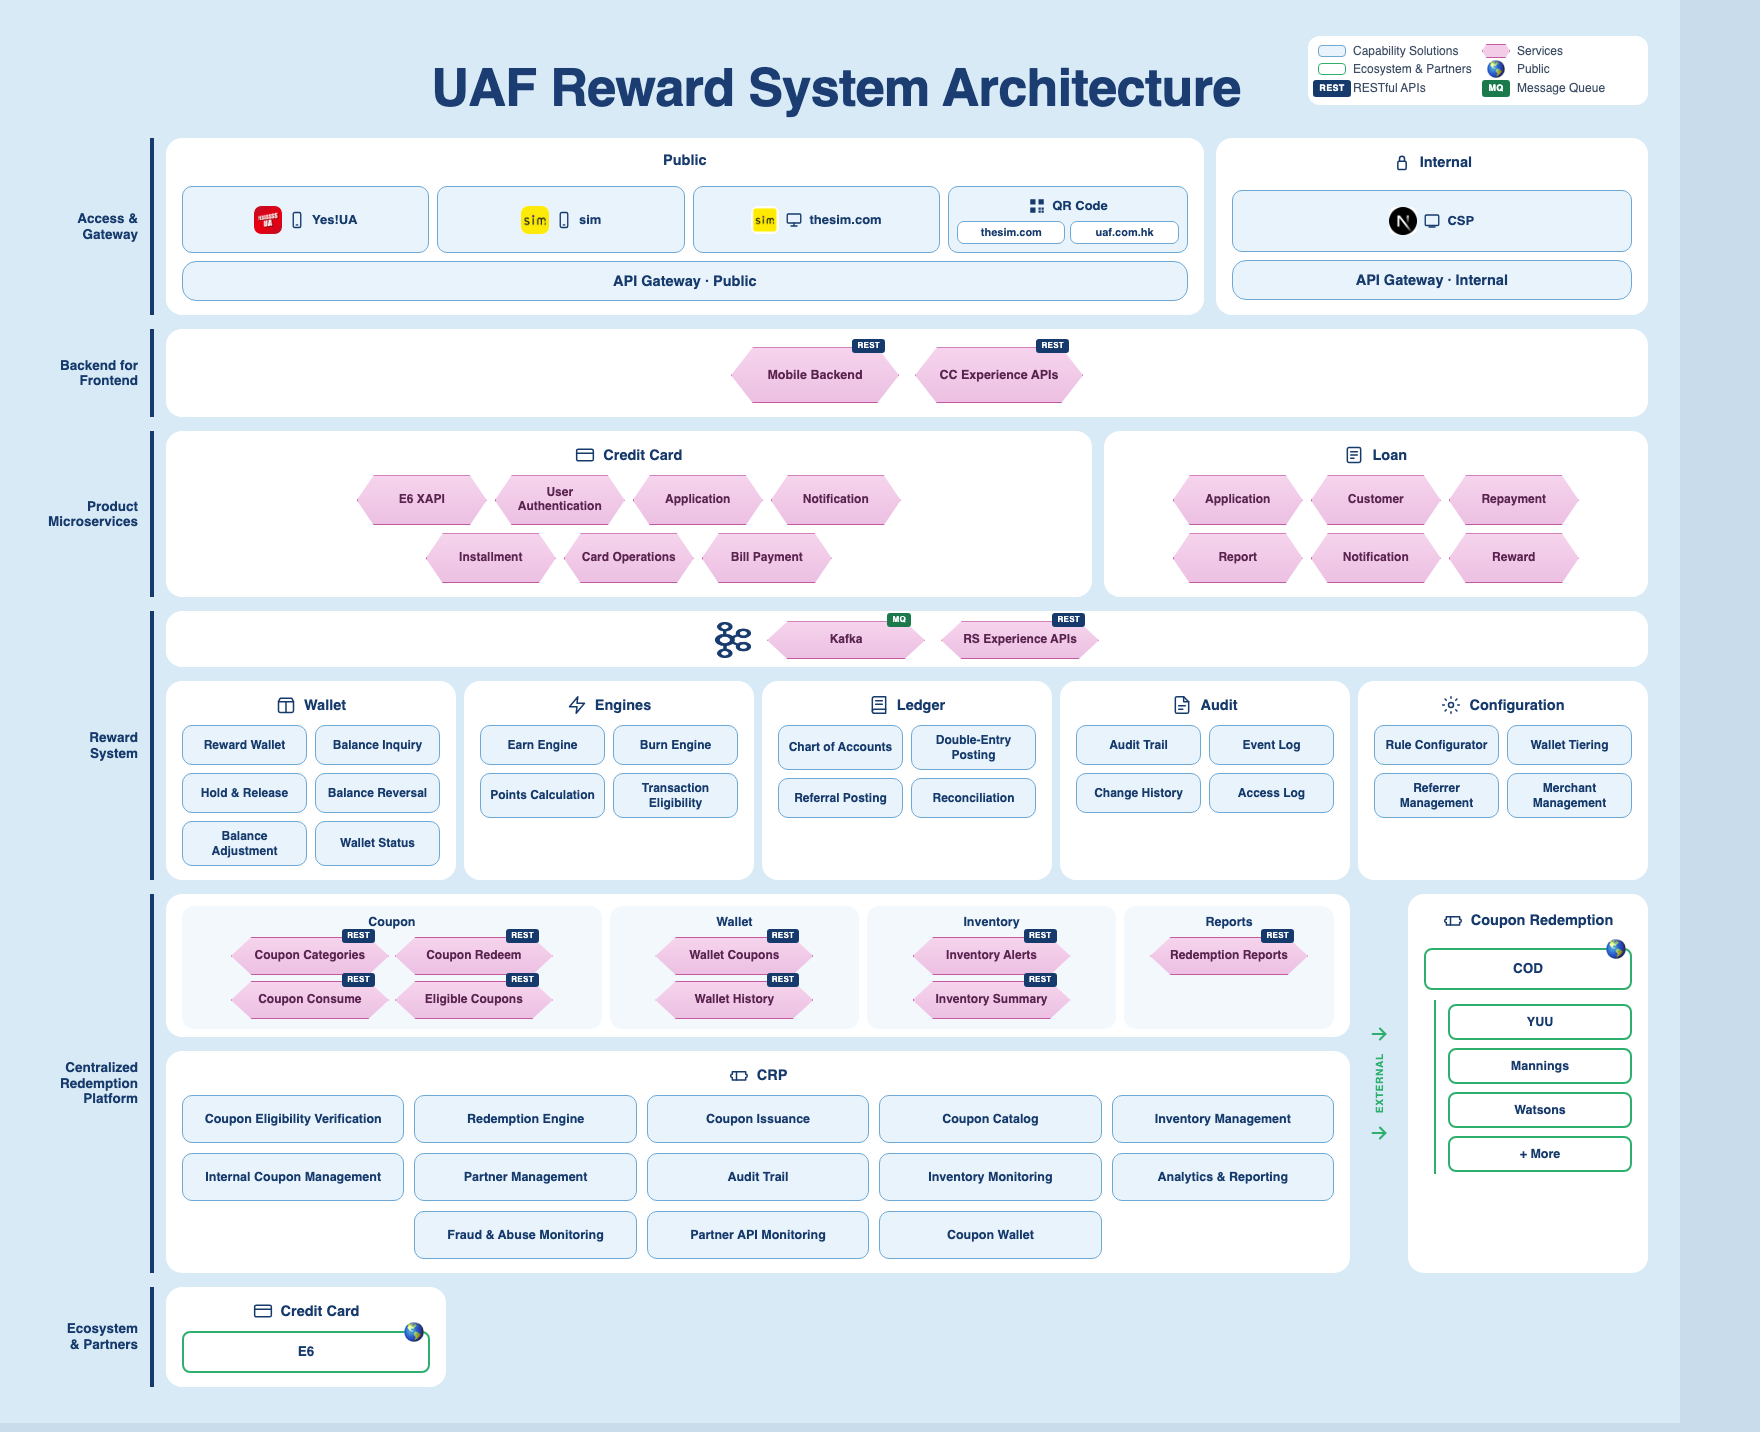
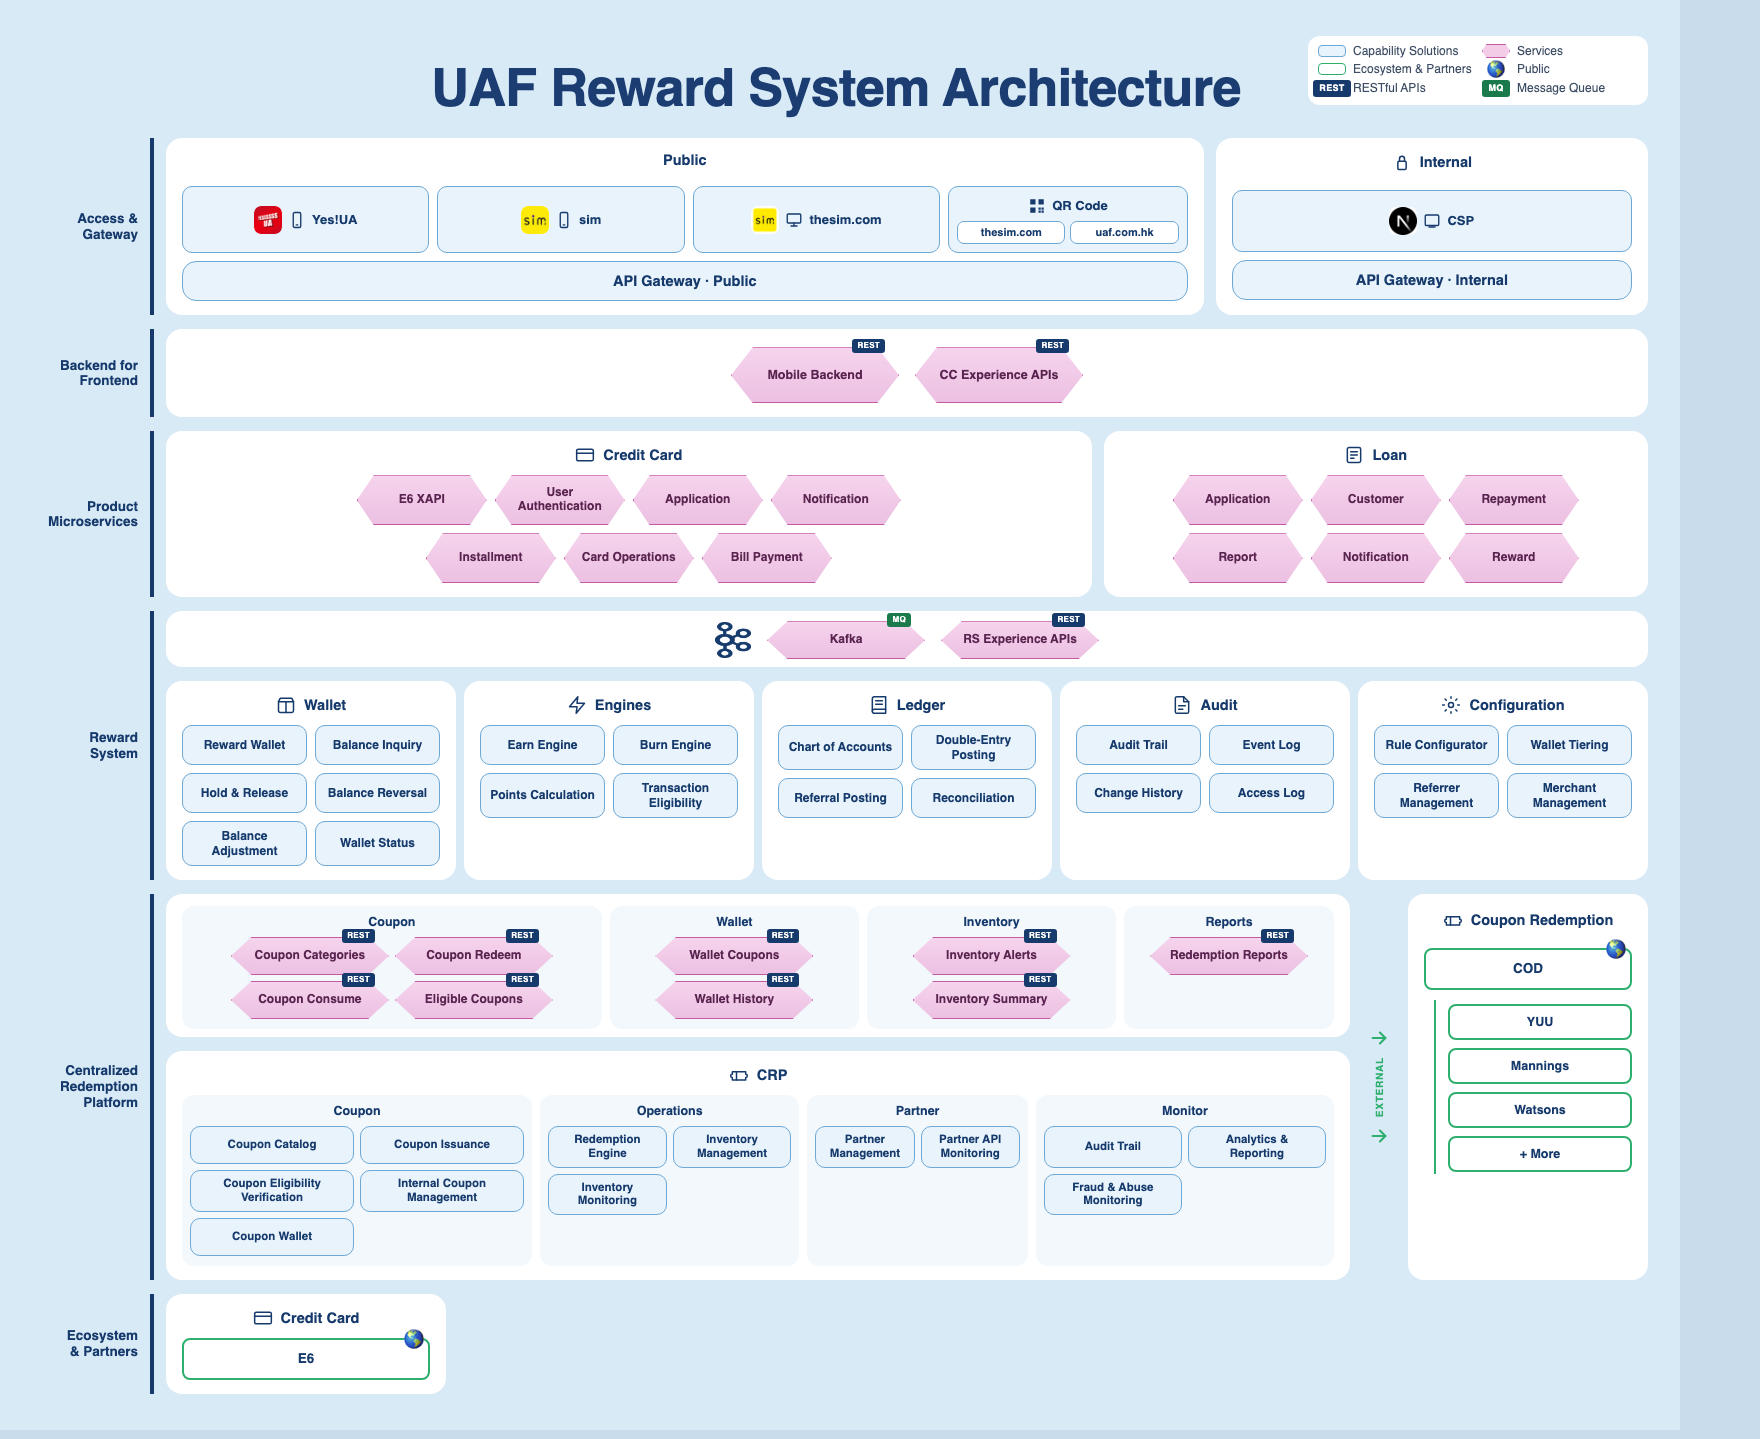
docs(decks): CRP capabilities grouped Coupon Operations Partner Monitor

diff --git a/docs/decks/uaf-rewards-logical-architecture.html b/docs/decks/uaf-rewards-logical-architecture.html
@@ -63,8 +63,11 @@
   .qr-subs{display:flex;gap:5px;width:100%}
   .qr-sub{flex:1;background:#fff;border:1.3px solid #6ea8d4;border-radius:7px;font-size:11px;font-weight:700;color:#163a6b;padding:4px 6px;text-align:center;line-height:1.2}
   .caps{display:grid;grid-template-columns:repeat(5,1fr);gap:10px}
-  .crp-caps{grid-template-columns:repeat(5,1fr)}
-  .crp-caps .cap{min-height:48px;font-size:12.5px}
+  .crp-islands{display:grid;grid-template-columns:1.35fr 1fr .85fr 1.15fr;gap:8px;align-items:stretch}
+  .crp-g{background:#f3f8fd;border-radius:12px;padding:8px 8px 10px}
+  .crp-g h4{text-align:center;font-size:12.5px;color:#163a6b;font-weight:700;margin:0 0 8px}
+  .crp-g .caps{grid-template-columns:1fr 1fr;gap:6px}
+  .crp-g .cap{min-height:38px;font-size:11.5px;padding:6px 8px}
   .verbs{display:grid;grid-template-columns:1fr 1fr 1fr;gap:12px}
   .verbs .cap{min-height:56px;font-size:15px}
   .stack{display:flex;flex-direction:column;gap:9px}
@@ -338,20 +341,40 @@
             <svg class="ico" viewBox="0 0 24 24"><path d="M4 8h16v3a2 2 0 0 1 0 4v3H4v-3a2 2 0 0 1 0-4V8z"/><path d="M9 8v10"/></svg>
             CRP
           </h3>
-          <div class="caps crp-caps">
-            <div class="cap">Coupon Eligibility Verification</div>
-            <div class="cap">Redemption Engine</div>
-            <div class="cap">Coupon Issuance</div>
-            <div class="cap">Coupon Catalog</div>
-            <div class="cap">Inventory Management</div>
-            <div class="cap">Internal Coupon Management</div>
-            <div class="cap">Partner Management</div>
-            <div class="cap">Audit Trail</div>
-            <div class="cap">Inventory Monitoring</div>
-            <div class="cap">Analytics &amp; Reporting</div>
-            <div class="cap" style="grid-column:2">Fraud &amp; Abuse Monitoring</div>
-            <div class="cap">Partner API Monitoring</div>
-            <div class="cap">Coupon Wallet</div>
+          <div class="crp-islands">
+            <div class="crp-g">
+              <h4>Coupon</h4>
+              <div class="caps">
+                <div class="cap">Coupon Catalog</div>
+                <div class="cap">Coupon Issuance</div>
+                <div class="cap">Coupon Eligibility Verification</div>
+                <div class="cap">Internal Coupon Management</div>
+                <div class="cap">Coupon Wallet</div>
+              </div>
+            </div>
+            <div class="crp-g">
+              <h4>Operations</h4>
+              <div class="caps">
+                <div class="cap">Redemption Engine</div>
+                <div class="cap">Inventory Management</div>
+                <div class="cap">Inventory Monitoring</div>
+              </div>
+            </div>
+            <div class="crp-g">
+              <h4>Partner</h4>
+              <div class="caps">
+                <div class="cap">Partner Management</div>
+                <div class="cap">Partner API Monitoring</div>
+              </div>
+            </div>
+            <div class="crp-g">
+              <h4>Monitor</h4>
+              <div class="caps">
+                <div class="cap">Audit Trail</div>
+                <div class="cap">Analytics &amp; Reporting</div>
+                <div class="cap">Fraud &amp; Abuse Monitoring</div>
+              </div>
+            </div>
           </div>
         </div>
       </div>
